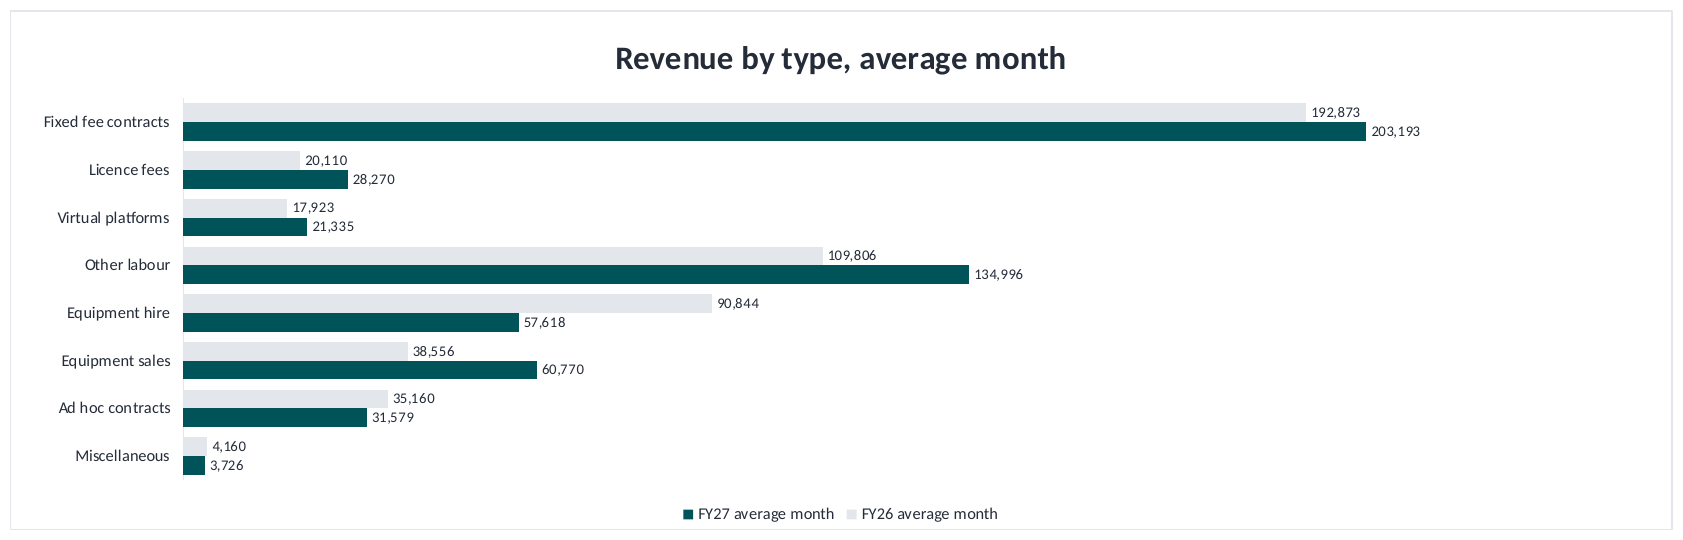
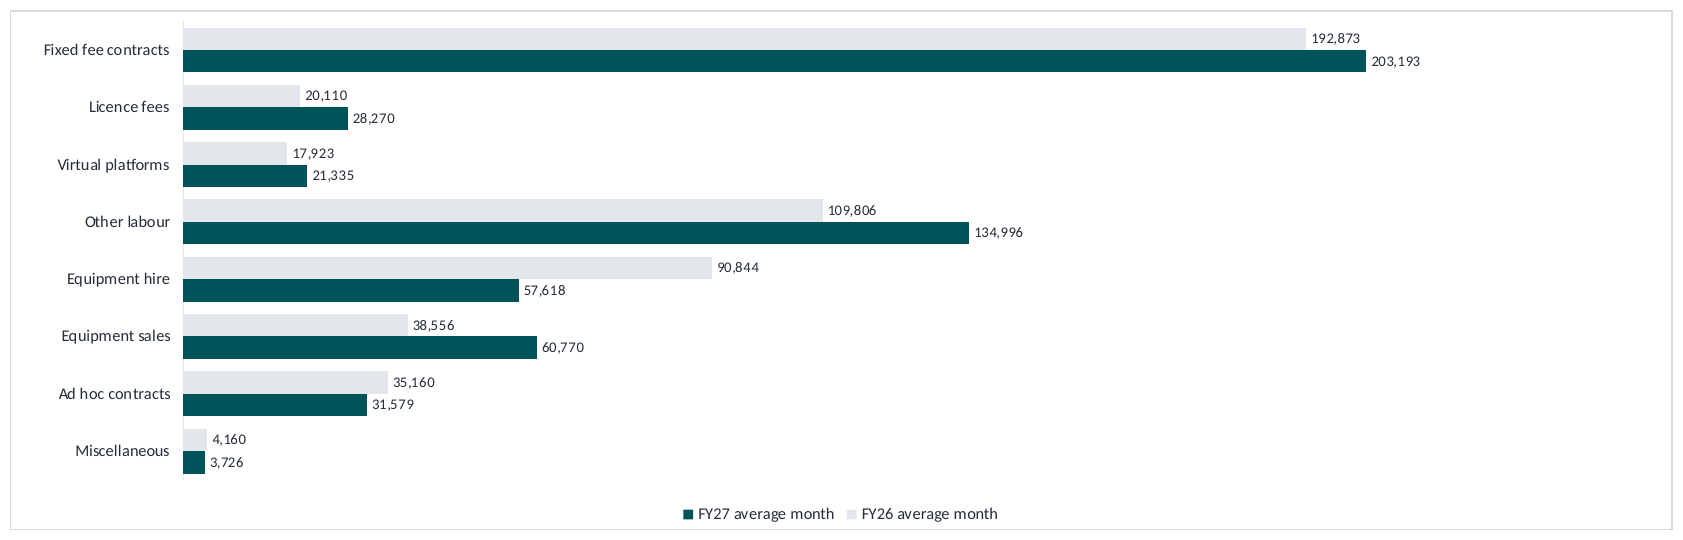
Centre every snip, correct two carried over slides, queue the quarterly department P&Ls
Danica said the quarterly departmental slide looks horrible. It does. The
table is wide and short, so it fills the eight and a half inches of width
long before it fills the height, and pinned to the top it left a band of
white between itself and the commentary. refreshsnips now centres every
picture in the room it has, both ways, which fixes that slide and any
other wide short table in the deck.

She also flagged the fourth quarter slide as wrong. Checked every claim
on it against Xero History rows 179 to 189 and two were.

  Four of the five fourth quarters before this one lost money or made
  less than one per cent. Three lost money, and the other two made 3.3
  and 5.4 per cent, so neither was under one per cent either.

  The best was 2020 on the lowest revenue of the eleven years. 2020
  billed 943,093 and 2016 billed 814,578, so 2020 is the second lowest.

Checking the full year slide beside it turned up a third. Net margin has
sat between 4 and 5 per cent in four of the last five years is not what
the data says. Only 2024 at 4.5 per cent falls in that band. The five run
3.9, 8.0, 4.5, 5.3 and 3.8.

Everything else on both slides checks out and is left as written.

Queues three more snips, a full profit and loss for each reporting group
on a quarter basis, from column O of the P&L by Dept tab.

None of it is applied. The chart render is still running.

Claude-Session: https://claude.ai/code/session_01CVBAFohBCYXt1ufjTVDiZj

Changed region(s): [[0.0309, 0.0296, 0.8342, 0.8889]]

diff --git a/deck/edits/fixcarried.py b/deck/edits/fixcarried.py
@@ -1,0 +1,75 @@
+"""Correct the commentary on the two carried over year slides.
+
+Danica flagged the fourth quarter slide. Checked every claim on it against the
+data on Xero History rows 179 to 189, and two were wrong.
+
+  "Four of the five fourth quarters before this one lost money or made less
+  than 1%."  Three lost money. The other two made 3.3% and 5.4%, so neither
+  was under one per cent either.
+
+  "The best was 2020 at 20%, on the lowest revenue of the eleven years."
+  2020 billed 943,093. 2016 billed 814,578, so 2020 is the second lowest.
+
+Checking the full year slide beside it turned up one more. "Net margin has sat
+between 4% and 5% in four of the last five years" is not what the data says.
+Only 2024 at 4.5% falls inside that band. The five run 3.9, 8.0, 4.5, 5.3 and
+3.8 per cent.
+
+Everything else on both slides checks out and is left alone.
+"""
+import sys, os
+sys.path.insert(0, os.path.dirname(os.path.abspath(__file__)))
+from pptx import Presentation
+from pptx.util import Pt
+from addslide import balance, write, SIZE
+
+FIX = {
+    'Revenue and net profit, fourth quarter': [
+        'Fourth quarter revenue was $1,685,818, the highest fourth quarter on this chart.',
+        'Fourth quarter profit was $65,971 at a 3.9% margin, the first positive one since 2022.',
+        'Three of the five fourth quarters before this one lost money.',
+        'The worst was 2019, which lost $255,544 on $1,465,028 of revenue.',
+        'The best was 2020 at 20.2%, on the second lowest revenue of the eleven years.',
+    ],
+    'Revenue and net profit, full year': [
+        'FY2026 revenue was $6,113,186, down $887,171 on FY2025.',
+        'FY2026 net profit was $235,273, against $368,638 the year before.',
+        'Net margin has run between 3.8% and 5.3% in four of the last five years.',
+        '2023 is the exception at 8.0%. The two strong years are 2018 at 17.0% and 2021 at 14.5%.',
+        'Revenue has roughly doubled since 2016 while profit has not.',
+    ],
+}
+
+
+def title_of(slide):
+    for sh in slide.shapes:
+        if sh.name == 'Text 1' and sh.has_text_frame:
+            return sh.text_frame.text.strip().split('\n')[0]
+    return ''
+
+
+def main(src, out):
+    pres = Presentation(src)
+    done = 0
+    for i, s in enumerate(pres.slides, 1):
+        bullets = FIX.get(title_of(s))
+        if not bullets:
+            continue
+        by = {sh.name: sh for sh in s.shapes}
+        cols = list(balance(bullets, 4.05))
+        for box_name, items in (('Text 5', cols[0]), ('Text 5b', cols[1])):
+            box = by.get(box_name)
+            if box is None or not items:
+                continue
+            write(box, items)
+            for para in box.text_frame.paragraphs:
+                for r in para.runs:
+                    r.font.size = Pt(SIZE)
+        print('  %-3d %s' % (i, title_of(s)))
+        done += 1
+    pres.save(out)
+    print('%d slides corrected' % done)
+
+
+if __name__ == '__main__':
+    main(sys.argv[1], sys.argv[2])

diff --git a/deck/edits/refreshsnips.py b/deck/edits/refreshsnips.py
@@ -6,7 +6,11 @@ are re-placed. This walks the deck and swaps each one.
 
 Geometry is recomputed, because a chart that loses its title gets shorter and
 its aspect ratio changes. The picture is sized to the gap between the title and
-the commentary strip, exactly as addslide.add() sizes it, and centred.
+the commentary strip, then centred in it both ways.
+
+Centring vertically matters for the wide short tables. They fill the width long
+before they fill the height, so pinned to the top they left a band of white
+between themselves and the commentary.
 
 A slide carrying more than one chart is left alone. Those have a hand-built
 side by side layout that this would flatten.
@@ -54,9 +58,13 @@ def main(src, out):
         aspect = im.width / im.height
         if panel is not None:
             strip_top = emu_in(panel.top)
-            pic_h = min(strip_top - 0.12 - TOP, SPAN / aspect)
+            room = strip_top - 0.12 - TOP
+            pic_h = min(room, SPAN / aspect)
             pic_w = pic_h * aspect
-            left, top = LEFT + (SPAN - pic_w) / 2, TOP
+            # centred in the room it has, not pinned to the top. A wide short
+            # table fills the width long before it fills the height, and
+            # pinning it left a band of white between it and the commentary.
+            left, top = LEFT + (SPAN - pic_w) / 2, TOP + (room - pic_h) / 2
         else:
             # no strip on this one, so keep the box it had and fit inside it
             left, top = emu_in(old_box[0]), emu_in(old_box[1])

diff --git a/deck/build/snip.py b/deck/build/snip.py
@@ -87,6 +87,12 @@ SNIPS = {
     # Columns B, C and D are the three months and F is the rolling forecast,
     # all hidden, which leaves Line, YTD, YTD Budget, Var $ and Var %.
     'q1_summary':       ('Summary', 'A5:I182', True, 'BCDF'),
+
+    # Quarterly. A full profit and loss for each reporting group, the quarter
+    # only. Column O of that tab is the year to date, which at September is Q1.
+    'q1_pl_production': ('P&L by Dept', 'A6:O79',    True, 'BCDEFGHIJKLMN'),
+    'q1_pl_consulting': ('P&L by Dept', 'A83:O156',  True, 'BCDEFGHIJKLMN'),
+    'q1_pl_support':    ('P&L by Dept', 'A160:O233', True, 'BCDEFGHIJKLMN'),
     'util_chart':  ('Utilisation',    'F65:AA90',    False),
     # The same hours picture rolled up to the three departments.
     'util_three':  ('Utilisation',    'F92:AA117',   False),
